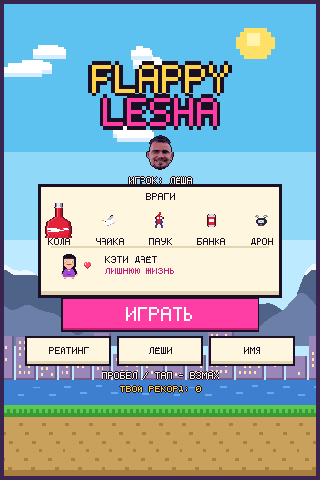
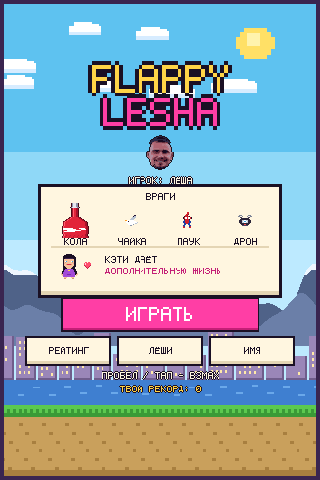
Drop the cola can enemy, and Katy gives a "дополнительная" life
The can is gone from the roster, its spawn, update and draw branches, its
death debris and the title screen, and its sprite is no longer generated at
all. Three flyers remain: чайка, паук and дрон, with the icons recentred.

Katy's line on the title screen now reads "дополнительную жизнь".

Claude-Session: https://claude.ai/code/session_01XW6BYSZqDpLMGQiBQsJifR

diff --git a/src/game.js b/src/game.js
@@ -42,7 +42,6 @@
   // The flying enemies. Katy is not here any more - she hands out lives.
   const ENEMIES = {
     gull:  { w: 30, h: 22, inset: 5, unlock: 2,  weight: 3, label: "чайка" },
-    can:   { w: 22, h: 26, inset: 3, unlock: 7,  weight: 2, label: "банка" },
     drone: { w: 32, h: 22, inset: 5, unlock: 12, weight: 2, label: "дрон" },
     spider: { w: 28, h: 32, inset: 6, unlock: 5, weight: 2, label: "паук" },
   };
@@ -127,10 +126,8 @@
   const gullTiny = buildSprite(SP.gullUp, 1);
   const droneFrames = [buildSprite(SP.droneA, 2), buildSprite(SP.droneB, 2)];
   const droneTiny = buildSprite(SP.droneA, 1);
-  const canSprite = buildSprite(SP.can, 2);
   const spiderSprite = buildSprite(SP.spider, 2);
   const spiderTiny = buildSprite(SP.spider, 1);
-  const canTiny = buildSprite(SP.can, 1);
   const heartSprite = buildSprite(SP.heart, 2);
   const heartTiny = buildSprite(SP.heart, 1);
   const colaCap = buildSprite(SP.colaCap, COLA_SCALE);
@@ -655,12 +652,6 @@
       e.amp = 8 + Math.random() * 18;
       e.freq = 1.6 + Math.random() * 1.2;
       e.baseY = 50 + Math.random() * (GROUND_Y - 150 - e.amp * 2);
-    } else if (kind === "can") {
-      // a shaken can: slow at first, then it takes off
-      e.vx = base * 0.75;
-      e.accel = 0.05;
-      e.baseY = 60 + Math.random() * (GROUND_Y - 160);
-      e.spin = 0;
     } else if (kind === "spider") {
       // one swing across the screen on a web strung from the top edge
       e.vx = fairSpeed(spawnX, base * 0.9, base * 1.6);
@@ -748,12 +739,11 @@
     const debris = {
       cola: ["#e2243a", "#ff6070", "#ffffff"],
       gull: ["#ffffff", "#b9c4d4", "#8b97ab"],
-      can: ["#e2243a", "#d8dce8", "#ffffff"],
       drone: ["#2b2438", "#c8ccd8", "#ff4d4d"],
       spider: ["#d2222d", "#1d3fa8", "#ffffff"],
       ground: [COLORS.dirt, COLORS.dirtDark, "#ffffff"],
     }[cause] || ["#ffffff", "#ffd447"];
-    if (cause === "cola" || cause === "can") Sfx.cola();
+    if (cause === "cola") Sfx.cola();
     else Sfx.hit();
     burst(HERO_X, hero.y, 18, debris, cause === "ground" ? 2.6 : 3);
   }
@@ -869,18 +859,6 @@
         e.drawY = hy;
         e.hitX = e.drawX;
         e.hitY = hy + 6;
-      } else if (e.kind === "can") {
-        e.vx = Math.min(e.vx + e.accel, 7.5);
-        e.x -= e.vx;
-        e.spin += dt * 6;
-        if (Math.random() < 0.6) {
-          particles.push({
-            x: e.x + e.def.w, y: e.y + e.def.h / 2 + (Math.random() - 0.5) * 8,
-            vx: 0.6 + Math.random(), vy: (Math.random() - 0.5) * 0.6,
-            life: 0.3 + Math.random() * 0.3, size: 2, gravity: 0.01,
-            color: Math.random() < 0.5 ? "#ffffff" : "#ffb3bd",
-          });
-        }
       } else {
         e.x -= e.vx;
         const dy = cy - (e.y + e.def.h / 2);
@@ -1121,10 +1099,6 @@
       ctx.rotate(-angle);
       ctx.drawImage(spiderSprite, -spiderSprite.width / 2, 0);
       ctx.restore();
-    } else if (e.kind === "can") {
-      // a wobble instead of a real rotation keeps the pixels crisp
-      const wobble = Math.sin(e.spin) > 0 ? 1 : -1;
-      ctx.drawImage(canSprite, x, y + wobble);
     } else {
       const frame = Math.floor(e.t * 16) % 2;
       ctx.drawImage(droneFrames[frame], x, y);
@@ -1322,11 +1296,10 @@
       [colaTiny, "кола"],
       [gullTiny, "чайка"],
       [spiderTiny, "паук"],
-      [canTiny, "банка"],
       [droneTiny, "дрон"],
     ];
     icons.forEach(([img, label], i) => {
-      const cx = 56 + i * 52;
+      const cx = W / 2 + (i - (icons.length - 1) / 2) * 58;
       ctx.drawImage(img, Math.round(cx - img.width / 2), Math.round(220 - img.height / 2));
       drawText(ctx, label, cx, 238, { scale: 1, color: COLORS.ink, align: "center" });
     });
@@ -1335,7 +1308,7 @@
     ctx.drawImage(katyTiny, 58, 254);
     ctx.drawImage(heartTiny, 82, 262);
     drawText(ctx, "кэти даёт", 104, 256, { scale: 1, color: COLORS.ink });
-    drawText(ctx, "лишнюю жизнь", 104, 268, { scale: 1, color: "#c41f77" });
+    drawText(ctx, "дополнительную жизнь", 104, 268, { scale: 1, color: "#c41f77" });
 
     drawText(ctx, "пробел / тап - взмах", W / 2, 374, {
       scale: 1, color: COLORS.paper, align: "center", outline: COLORS.ink,

diff --git a/src/assets-data.js b/src/assets-data.js
@@ -212,32 +212,6 @@ const SPRITE_DATA = {
       ".....kkkkkk....."
     ]
   },
-  "can": {
-    "w": 11,
-    "pal": {
-      "M": "#d8dce8",
-      "m": "#9aa2b4",
-      "R": "#e2243a",
-      "r": "#a8122a",
-      "W": "#ffffff",
-      "D": "#4a0d1b"
-    },
-    "rows": [
-      "..DMMMMMD..",
-      ".DMmMMMmMD.",
-      ".DMMMMMMMD.",
-      ".DrRRRRRrD.",
-      ".DrRRRRRrD.",
-      ".DrWWWWWrD.",
-      ".DrWWWWWrD.",
-      ".DrWWWWWrD.",
-      ".DrRRRRRrD.",
-      ".DrRRRRRrD.",
-      ".DrRRRRRrD.",
-      ".DmMMMMMmD.",
-      "..DMMMMMD.."
-    ]
-  },
   "heart": {
     "w": 7,
     "pal": {

diff --git a/tools/make_assets.py b/tools/make_assets.py
@@ -252,30 +252,6 @@ DRONE_B = {
     ],
 }
 
-# A shaken cola can that comes in like a rocket.
-CAN = {
-    "w": 11,
-    "pal": {
-        "M": "#d8dce8", "m": "#9aa2b4", "R": "#e2243a", "r": "#a8122a",
-        "W": "#ffffff", "D": "#4a0d1b",
-    },
-    "rows": [
-        "..DMMMMMD..",
-        ".DMmMMMmMD.",
-        ".DMMMMMMMD.",
-        ".DrRRRRRrD.",
-        ".DrRRRRRrD.",
-        ".DrWWWWWrD.",
-        ".DrWWWWWrD.",
-        ".DrWWWWWrD.",
-        ".DrRRRRRrD.",
-        ".DrRRRRRrD.",
-        ".DrRRRRRrD.",
-        ".DmMMMMMmD.",
-        "..DMMMMMD..",
-    ],
-}
-
 # Spider-man hanging off his web: one arm up on the rope, legs tucked.
 SPIDER = {
     "w": 14,
@@ -406,7 +382,7 @@ def main():
         "katy": KATY, "colaCap": COLA_CAP, "colaBody": COLA_BODY,
         "gullUp": GULL_UP, "gullDown": GULL_DOWN,
         "droneA": DRONE_A, "droneB": DRONE_B,
-        "can": CAN, "heart": HEART, "spider": SPIDER,
+        "heart": HEART, "spider": SPIDER,
     }
     for name, sp in sprites.items():
         check(sp, name)

diff --git a/README.md b/README.md
@@ -59,12 +59,11 @@ python3 -m http.server 8000     # затем http://localhost:8000
 | --- | --- | --- |
 | Бутылки колы | сразу | «трубы» с зазором, стоят и лежат навстречу |
 | Чайка | 2 | летит навстречу по синусоиде, машет крыльями |
-| Банка колы | 7 | взболтанная банка: влетает медленно и разгоняется как ракета, оставляя шипучий след |
 | Человек-паук | 5 | висит на паутине от верхней границы экрана и одной дугой прочерчивает её сверху вниз |
 | Дрон папарацци | 12 | подлетает и медленно подстраивается под твою высоту — от него не улететь по прямой |
 
 **Кэти Перри — не враг, а бонус.** Она проплывает через экран с сердечком над
-головой; поймаешь — получишь лишнюю жизнь (максимум 3). Если жизни уже полные,
+головой; поймаешь — получишь дополнительную жизнь (максимум 3). Если жизни уже полные,
 вместо жизни дают +3 очка.
 
 **Жизни.** Старт — одна жизнь, сердечки видны слева сверху. Если жизней больше
